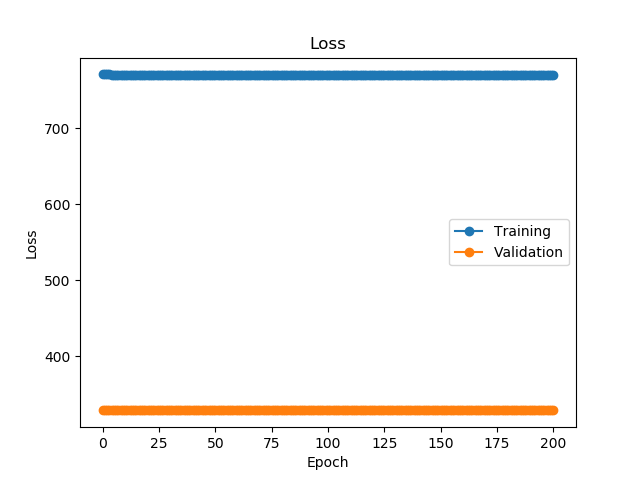
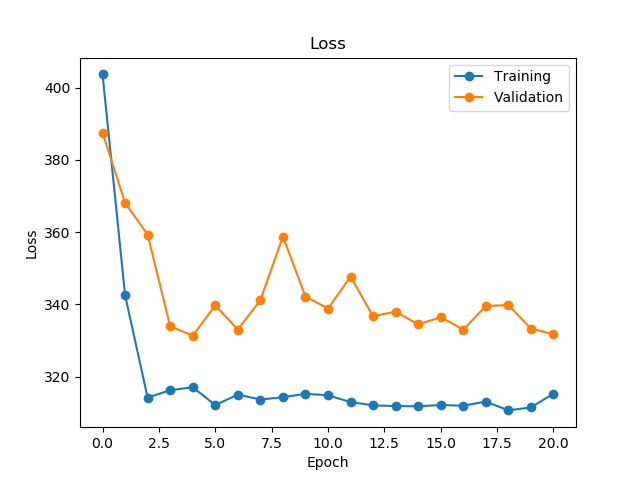
fix activation bug

diff --git a/scripts/neural_network/p1p2/model_0.py b/scripts/neural_network/p1p2/model_0.py
@@ -13,19 +13,19 @@ class Model(nn.Module):
     def __init__(self):
         super(Model, self).__init__()
         self.ground_net = nn.Sequential(
-            nn.Conv2d(in_channels=1, out_channels=16, kernel_size=3, padding=0),
+            nn.Conv2d(in_channels=1, out_channels=8, kernel_size=3, padding=0),
             nn.LeakyReLU(),
-            nn.Conv2d(in_channels=16, out_channels=256, kernel_size=3, padding=0),
+            nn.Conv2d(in_channels=8, out_channels=64, kernel_size=3, padding=0),
             nn.LeakyReLU(),
-            nn.Conv2d(in_channels=256, out_channels=256, kernel_size=4, padding=0),
+            nn.Conv2d(in_channels=64, out_channels=64, kernel_size=4, padding=0),
             nn.LeakyReLU(),
             nn.MaxPool2d(kernel_size=2),
 
-            nn.Conv2d(in_channels=256, out_channels=256, kernel_size=4, padding=0),
+            nn.Conv2d(in_channels=64, out_channels=64, kernel_size=4, padding=0),
             nn.LeakyReLU(),
-            nn.Conv2d(in_channels=256, out_channels=256, kernel_size=5, padding=2),
+            nn.Conv2d(in_channels=64, out_channels=64, kernel_size=5, padding=2),
             nn.LeakyReLU(),
-            nn.Conv2d(in_channels=256, out_channels=256, kernel_size=5, padding=2),
+            nn.Conv2d(in_channels=64, out_channels=64, kernel_size=5, padding=2),
             nn.LeakyReLU(),
             nn.MaxPool2d(kernel_size=2),
 
@@ -33,19 +33,19 @@ class Model(nn.Module):
         )
 
         self.wall_net = nn.Sequential(
-            nn.Conv2d(in_channels=1, out_channels=16, kernel_size=3, padding=0),
+            nn.Conv2d(in_channels=1, out_channels=8, kernel_size=3, padding=0),
             nn.LeakyReLU(),
-            nn.Conv2d(in_channels=16, out_channels=256, kernel_size=3, padding=0),
+            nn.Conv2d(in_channels=8, out_channels=64, kernel_size=3, padding=0),
             nn.LeakyReLU(),
-            nn.Conv2d(in_channels=256, out_channels=256, kernel_size=4, padding=0),
+            nn.Conv2d(in_channels=64, out_channels=64, kernel_size=4, padding=0),
             nn.LeakyReLU(),
             nn.MaxPool2d(kernel_size=2),
 
-            nn.Conv2d(in_channels=256, out_channels=256, kernel_size=4, padding=0),
+            nn.Conv2d(in_channels=64, out_channels=64, kernel_size=4, padding=0),
             nn.LeakyReLU(),
-            nn.Conv2d(in_channels=256, out_channels=256, kernel_size=5, padding=2),
+            nn.Conv2d(in_channels=64, out_channels=64, kernel_size=5, padding=2),
             nn.LeakyReLU(),
-            nn.Conv2d(in_channels=256, out_channels=256, kernel_size=5, padding=2),
+            nn.Conv2d(in_channels=64, out_channels=64, kernel_size=5, padding=2),
             nn.LeakyReLU(),
             nn.MaxPool2d(kernel_size=2),
 
@@ -66,25 +66,29 @@ class Model(nn.Module):
         )
 
         self.fc = nn.Sequential(
-            nn.Linear(256*13*13 + 256*7*59 + 128, 1024),
+            nn.Linear(64*13*13 + 64*7*59 + 128, 1024),
             nn.LeakyReLU(),
             nn.Linear(1024, 1024),
+            nn.LeakyReLU(),
+            nn.Linear(1024, 1024),
+            nn.LeakyReLU(),
+             nn.Linear(1024, 1024),
             nn.LeakyReLU(),
             nn.Linear(1024, 1024),
             nn.LeakyReLU(),
             nn.Linear(1024, 512),
-            nn.Sigmoid(),
+            nn.LeakyReLU(),
             nn.Linear(512, 32),
-            nn.Sigmoid(),
+            nn.LeakyReLU(),
             nn.Linear(32, 1),
-            nn.Sigmoid(),
+            nn.LeakyReLU(),
         )
     
 
     def forward(self, ground_depth_map, wall_depth_map, p2):
         """
-        "ground_depth_map" is a 2d array of shape (65, 65)
-        "wall_depth_map" is a 2d array of shape (41, 252)
+        "ground_depth_map" is a 2d array of shape (1, 65, 65)
+        "wall_depth_map" is a 2d array of shape (1, 41, 252)
         "p2" is a 1d array of shape (3,)
         """
         arr1 = self.ground_net(ground_depth_map)
@@ -94,6 +98,3 @@ class Model(nn.Module):
         z = self.fc(arr)
         return z
     
-
-
-

diff --git a/scripts/neural_network/p1p2/train.py b/scripts/neural_network/p1p2/train.py
@@ -39,8 +39,8 @@ def main():
     validation_dataset = Dataset(p2_ddyn, partition['validation'])
     validation_generator = data.DataLoader(validation_dataset, batch_size=256, shuffle=True, num_workers=4)
 
-    learning_rate = 0.001
-    num_epoch = 200
+    learning_rate = 0.0001
+    num_epoch = 20
     device = torch.device('cuda' if torch.cuda.is_available() else 'cpu')
     print('device: {}'.format(device))
     model = Model().to(device)
@@ -89,9 +89,9 @@ def main():
             loss = criterion(predicted_ddyns, ddyns)
             loss.backward()
             optimizer.step()
-            save_checkpoint(model, epoch, 'checkpoint/')
             loss_list.append(loss)
             length_list.append(predicted_ddyns.shape[0])
+        save_checkpoint(model, epoch, 'checkpoint/')
         epoch_loss = loss_across_epoch(loss_list, length_list)
         training_loss.append(epoch_loss)
         print('training loss: {:4.2f}'.format(epoch_loss))

diff --git a/scripts/generate_ground_truth_p1p2.py b/scripts/generate_ground_truth_p1p2.py
@@ -22,12 +22,10 @@ def main():
     validation = []
     test = []
     p2_ddyn_dict = {}
-    # for environment_type in range(NUM_ENVIRONMENT_TYPE):
-    for environment_type in [6]:
+    for environment_type in range(NUM_ENVIRONMENT_TYPE):
         with open('../data/medium_dataset_normal_wall/environments_' + str(environment_type), 'r') as env_file:
             environments = pickle.load(env_file)
-            # for environment_index in range(NUM_ENVIRONMENT_PER_TYPE):
-            for environment_index in range(30):
+            for environment_index in range(NUM_ENVIRONMENT_PER_TYPE):
                 if os.path.exists('../data/medium_dataset_normal_wall/dynamic_cost_' + str(environment_type) + '_' + str(environment_index)):
                     print('process data in file dynamic_cost_{}_{}'.format(environment_type, environment_index))
                     ground_vertices = environments[environment_index]['ground_vertices']

diff --git a/scripts/compute_ddyn.py b/scripts/compute_ddyn.py
@@ -181,12 +181,12 @@ def main():
     # its value is (initial_com_position, final_com_position, ddyn) (numpy array)
     info = {}
 
-    prev_environment_index = 0
+    prev_environment_index = 19
 
     for idx, transition in enumerate(transitions):
         environment_index = transition['environment_index']
-        # if environment_index < 0:
-        #     continue
+        if environment_index < 19:
+            continue
         if environment_index != prev_environment_index:
             print('save data to file dynamic_cost_{}_{}'.format(environment_type, prev_environment_index))
             with open('../data/medium_dataset_normal_wall/dynamic_cost_' + str(environment_type) + '_' + str(prev_environment_index), 'w') as file:

diff --git a/scripts/contact_transition_sampler.py b/scripts/contact_transition_sampler.py
@@ -416,6 +416,7 @@ def main(robot_name='athena'): # for test
 
     # sample environments and contact transitions
     for i in range(SAMPLE_SIZE_EACH_ENVIRONMENT):
+        print('environment index: {}'.format(i))
         structures = sample_env(env_handler, robot_obj, 'one_step_env_' + environment_type)
 
         # save the environment
